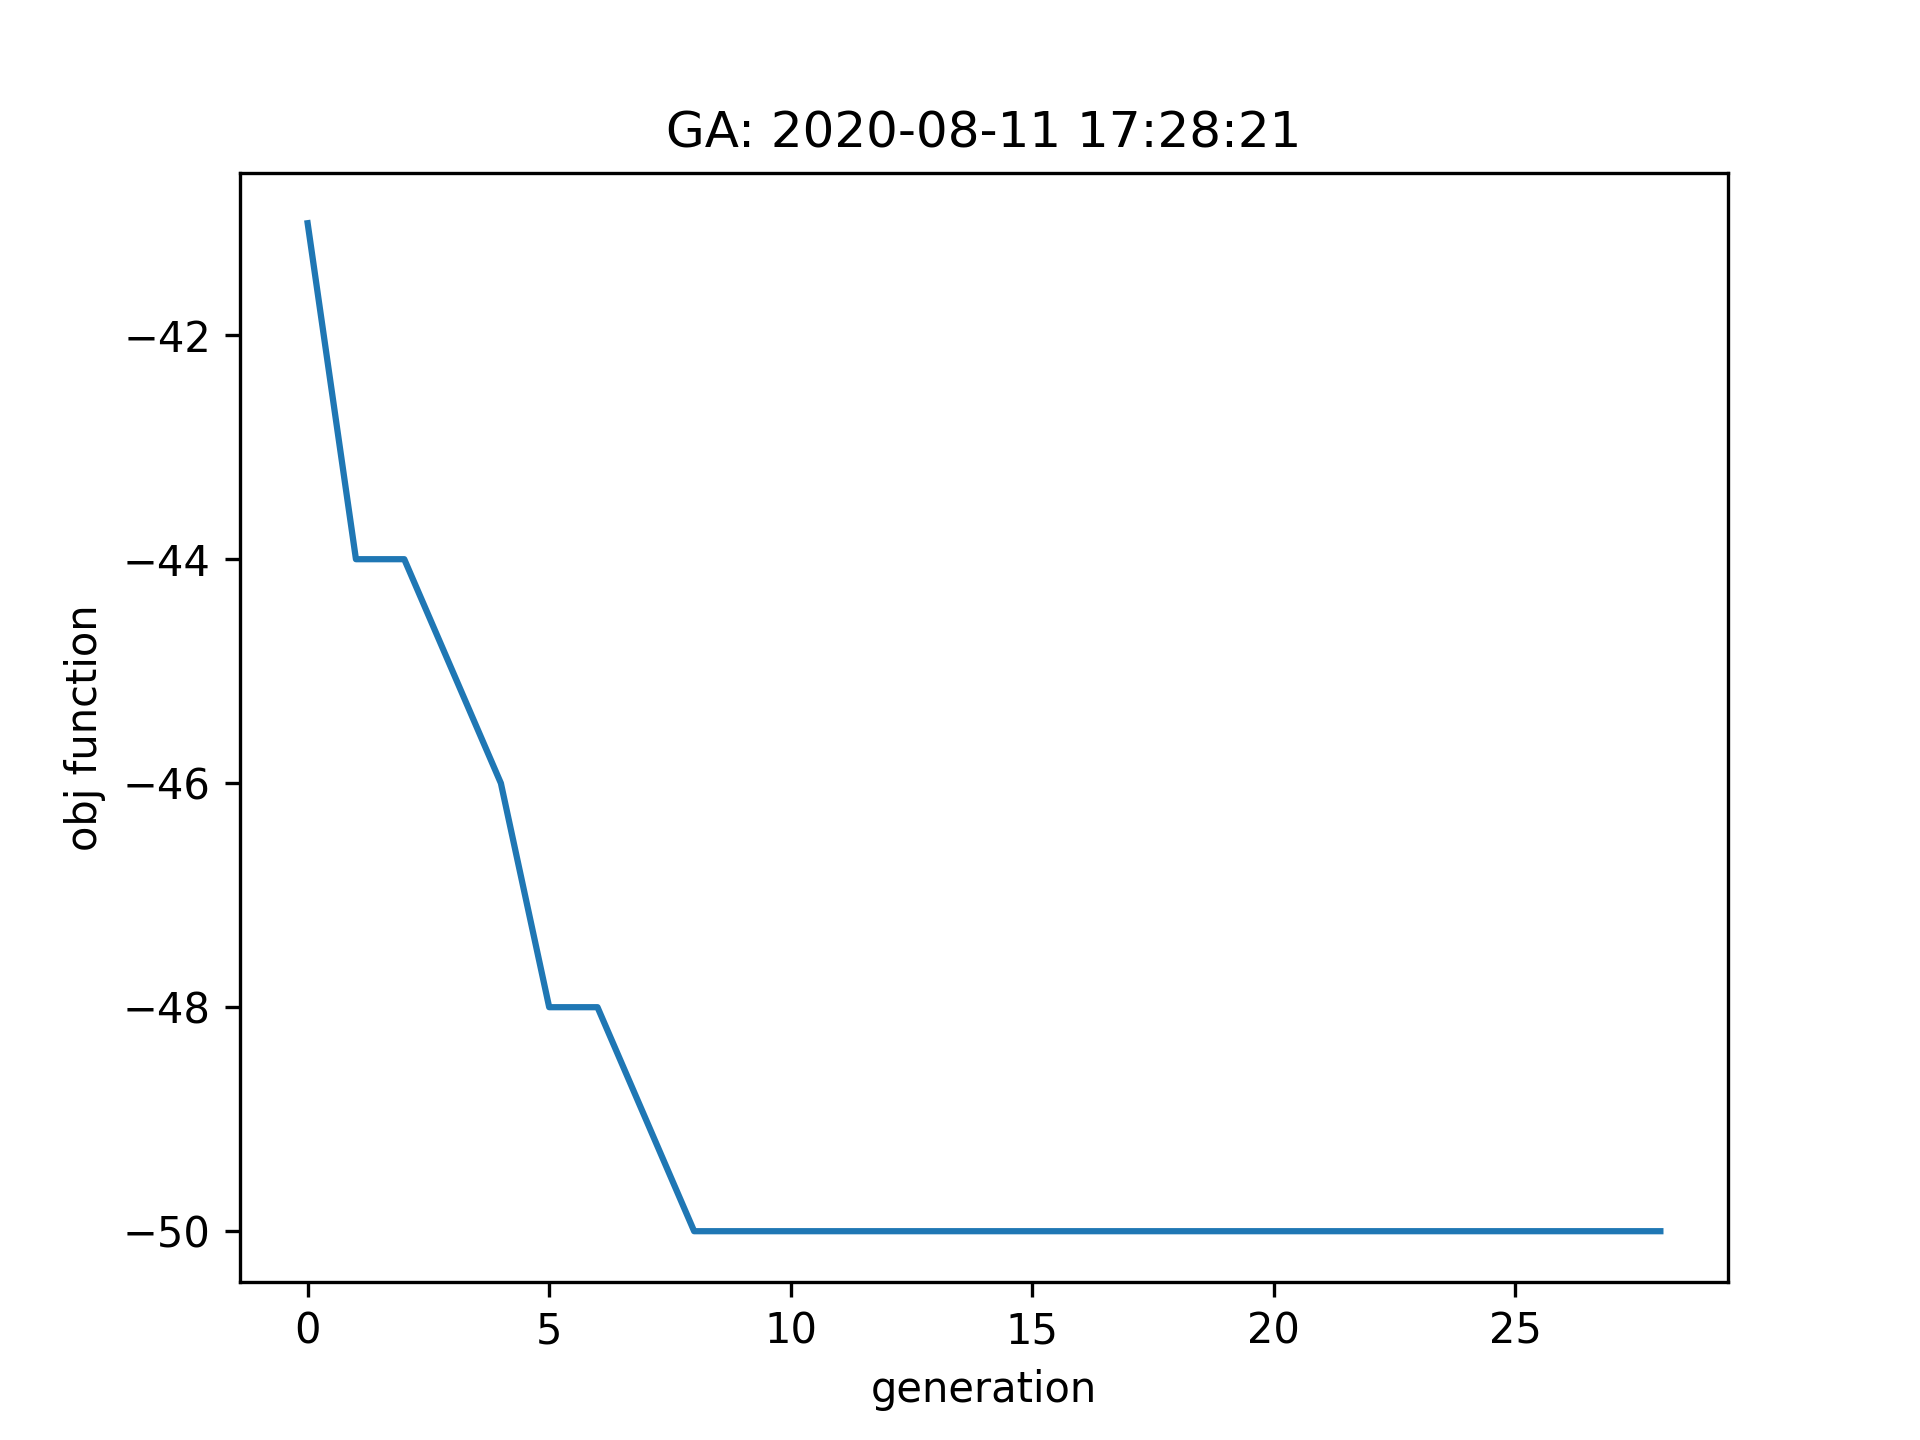
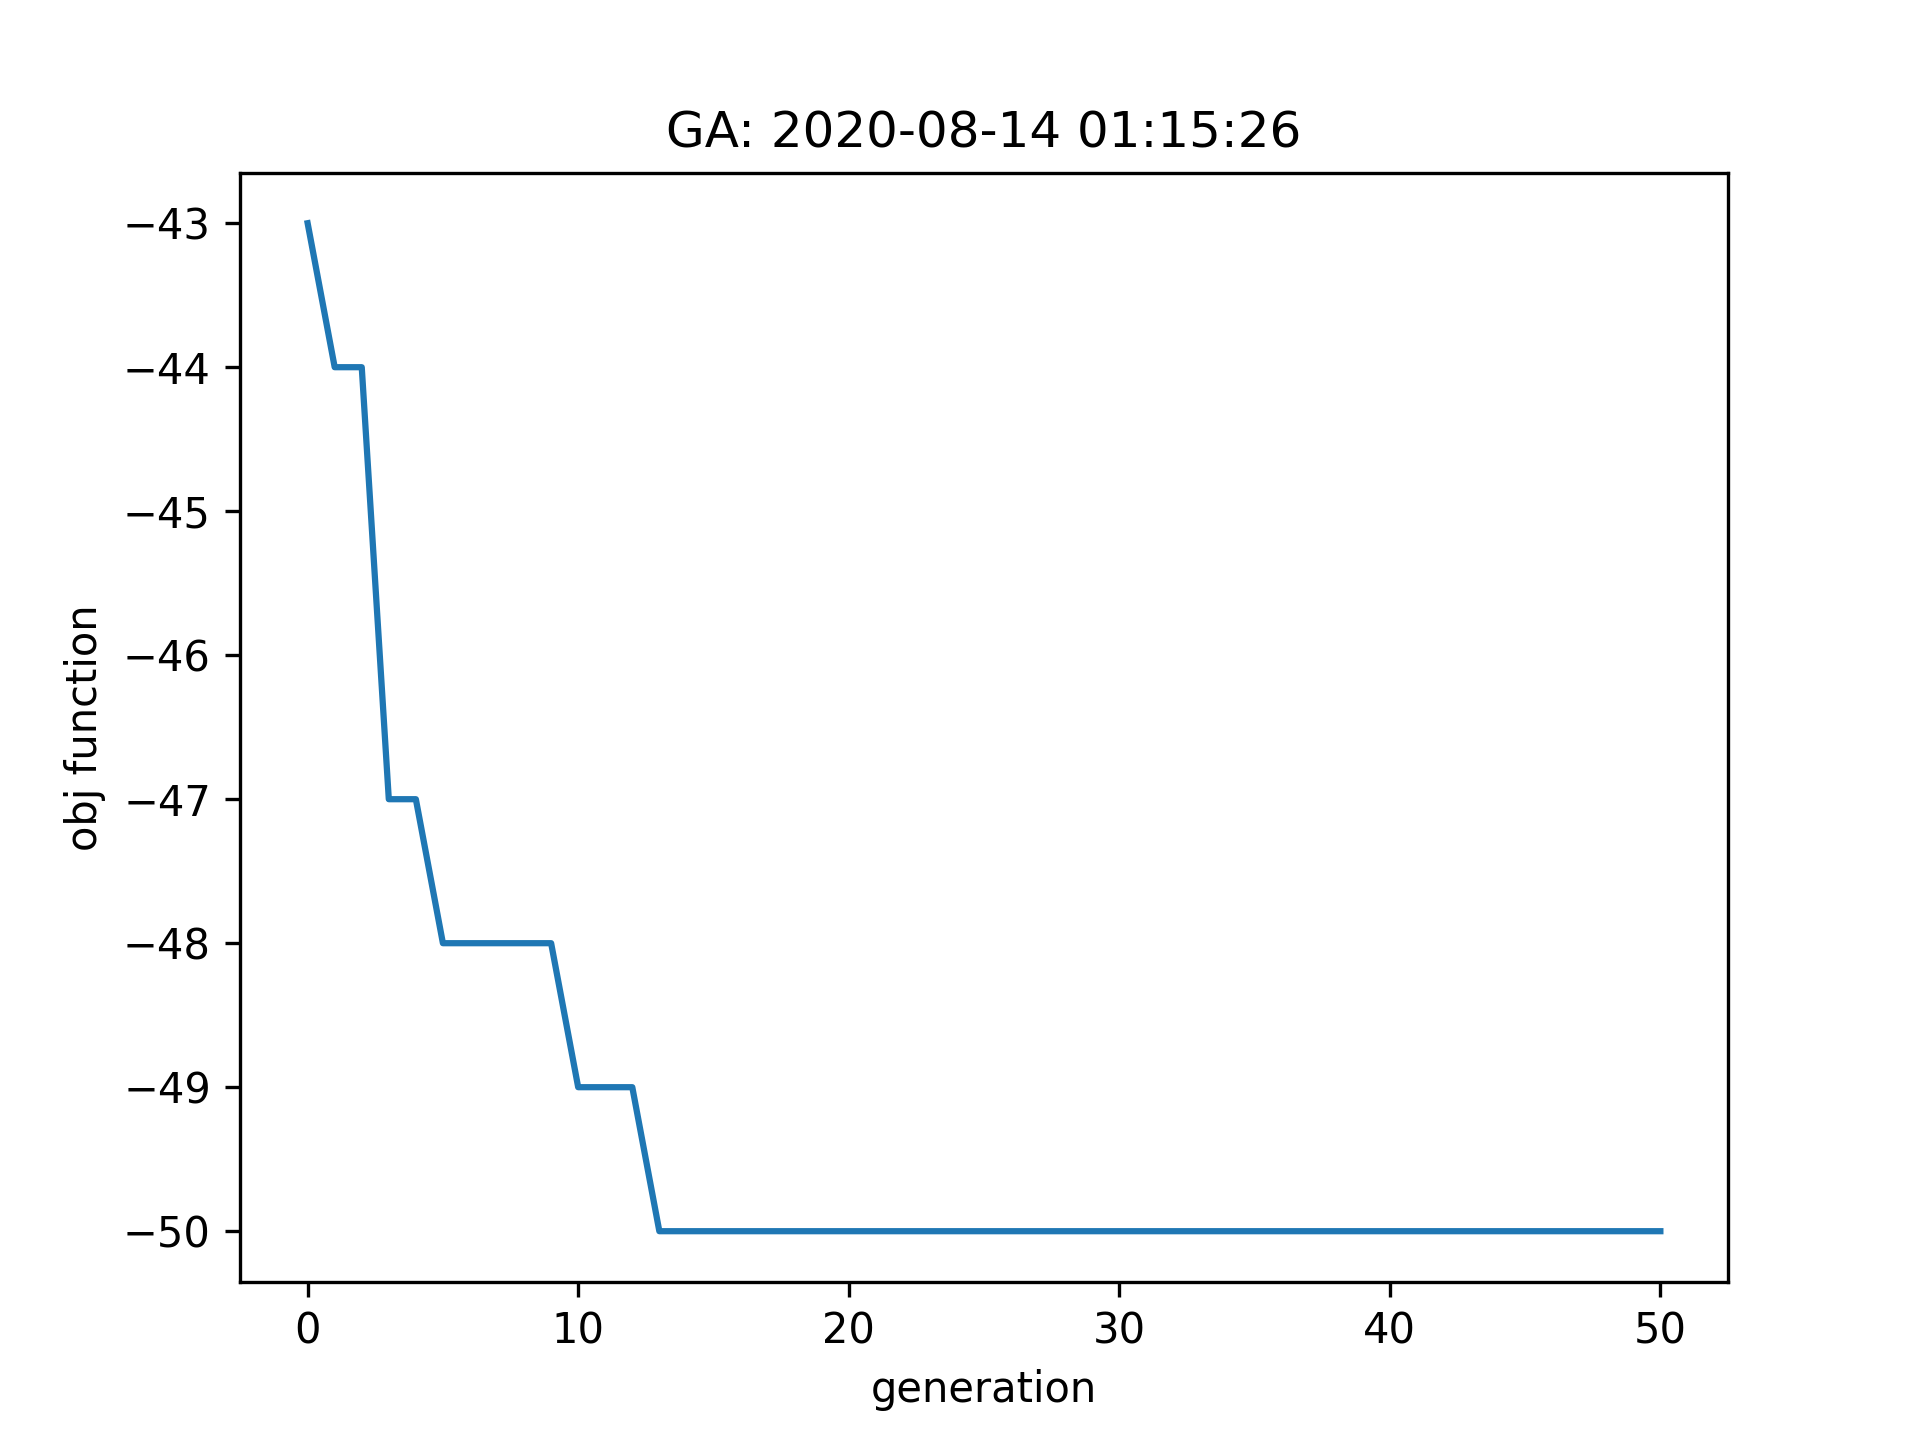
Incorporated 'effort' value, added option to suppress output from genetic algorithm

diff --git a/src/geneticalgorithm.py b/src/geneticalgorithm.py
@@ -9,13 +9,10 @@ from func_timeout import func_timeout, FunctionTimedOut
 import matplotlib.pyplot as plt
 from PIL import Image
 from datetime import date, datetime
-import random # oh to be fun and whimsical again
 
-## make a sweet message
-message_list = ["Adding Hidden Agendas", "Adjusting Bell Curves", "Aesthesizing Industrial Areas", "Aligning Covariance Matrices", "Applying Feng Shui Shaders", "Applying Theatre Soda Layer", "Asserting Packed Exemplars", "Attempting to Lock Back-Buffer", "Binding Sapling Root System", "Breeding Fauna", "Building Data Trees", "Bureacritizing Bureaucracies", "Calculating Inverse Probability Matrices", "Calculating Llama Expectoration Trajectory", "Calibrating Blue Skies", "Charging Ozone Layer", "Coalescing Cloud Formations", "Cohorting Exemplars", "Collecting Meteor Particles", "Compounding Inert Tessellations", "Compressing Fish Files", "Computing Optimal Bin Packing", "Concatenating Sub-Contractors", "Containing Existential Buffer", "Debarking Ark Ramp", "Debunching Unionized Commercial Services", "Deciding What Message to Display Next", "Decomposing Singular Values", "Decrementing Tectonic Plates", "Deleting Ferry Routes", "Depixelating Inner Mountain Surface Back Faces", "Depositing Slush Funds", "Destabilizing Economic Indicators", "Determining Width of Blast Fronts", "Deunionizing Bulldozers", "Dicing Models", "Diluting Livestock Nutrition Variables", "Downloading Satellite Terrain Data", "Exposing Flash Variables to Streak System", "Extracting Resources", "Factoring Pay Scale", "Fixing Election Outcome Matrix", "Flood-Filling Ground Water", "Flushing Pipe Network", "Gathering Particle Sources", "Generating Jobs", "Gesticulating Mimes", "Graphing Whale Migration", "Hiding Willio Webnet Mask", "Implementing Impeachment Routine", "Increasing Accuracy of RCI Simulators", "Increasing Magmafacation", "Initializing My Sim Tracking Mechanism", "Initializing Rhinoceros Breeding Timetable", "Initializing Robotic Click-Path AI", "Inserting Sublimated Messages", "Integrating Curves", "Integrating Illumination Form Factors", "Integrating Population Graphs", "Iterating Cellular Automata", "Lecturing Errant Subsystems", "Mixing Genetic Pool", "Modeling Object Components", "Mopping Occupant Leaks", "Normalizing Power", "Obfuscating Quigley Matrix", "Overconstraining Dirty Industry Calculations", "Partitioning City Grid Singularities", "Perturbing Matrices", "Pixalating Nude Patch", "Polishing Water Highlights", "Populating Lot Templates", "Preparing Sprites for Random Walks", "Prioritizing Landmarks", "Projecting Law Enforcement Pastry Intake", "Realigning Alternate Time Frames", "Reconfiguring User Mental Processes", "Relaxing Splines", "Removing Road Network Speed Bumps", "Removing Texture Gradients", "Removing Vehicle Avoidance Behavior", "Resolving GUID Conflict", "Reticulating Splines", "Retracting Phong Shader", "Retrieving from Back Store", "Reverse Engineering Image Consultant", "Routing Neural Network Infanstructure", "Scattering Rhino Food Sources", "Scrubbing Terrain", "Searching for Llamas", "Seeding Architecture Simulation Parameters", "Sequencing Particles", "Setting Advisor Moods", "Setting Inner Deity Indicators", "Setting Universal Physical Constants", "Sonically Enhancing Occupant-Free Timber", "Speculating Stock Market Indices", "Splatting Transforms", "Stratifying Ground Layers", "Sub-Sampling Water Data", "Synthesizing Gravity", "Synthesizing Wavelets", "Time-Compressing Simulator Clock", "Unable to Reveal Current Activity", "Weathering Buildings", "Zeroing Crime Network"]
-status_message = random.choice(message_list)+"..."
+## messages
+status_message = "Running genetic algorithm..."
 early_stop_message = "\n- Stopping early (no improvement) -"
-time_stop_message = "\n- Stopping early (time limit reached) -"
 
 class geneticalgorithm():
     
@@ -285,7 +282,8 @@ class geneticalgorithm():
             #     t=self.iterate
             #     self.stop_time=True
             
-            self.progress(t,self.iterate,status=status_message)
+            if self.param['verbose']:
+                self.progress(t,self.iterate,status=status_message)
             
             #Sort
             pop = pop[pop[:,self.dim].argsort()]
@@ -379,8 +377,9 @@ class geneticalgorithm():
                 pop = pop[pop[:,self.dim].argsort()]
                 if pop[0,self.dim]>=self.best_function:
                     t=self.iterate
-                    self.progress(t,self.iterate,status=status_message)
-                    time.sleep(2)
+                    if self.param['verbose']:
+                        self.progress(t,self.iterate,status=status_message)
+                        time.sleep(2)
                     t+=1
                     self.stop_mniwi=True
 
@@ -401,14 +400,16 @@ class geneticalgorithm():
         
         self.output_dict={'variable': self.best_variable, 'function':\
                           self.best_function}
-        show=' '*100
-        sys.stdout.write('\r%s' % (show))
-        ##sys.stdout.write('\r Best solution:\n %s' % (self.best_variable))
-        ##sys.stdout.write('\n\nObjective function: %s' % (self.best_function))
-        sys.stdout.write('\nScore: %s' % abs(self.best_function))
-        sys.stdout.flush() 
-        re=np.array(self.report)
         
+        if self.param['verbose']:
+            show=' '*100
+            sys.stdout.write('\r%s' % (show))
+            ##sys.stdout.write('\r Best solution:\n %s' % (self.best_variable))
+            ##sys.stdout.write('\n\nObjective function: %s' % (self.best_function))
+            sys.stdout.write('\nScore: %s' % abs(self.best_function))
+            sys.stdout.flush() 
+
+        re=np.array(self.report)
         now = datetime.today().strftime('%Y-%m-%d %H:%M:%S') ## pass from main?
         plt.plot(re)
         plt.xlabel('generation')
@@ -418,11 +419,7 @@ class geneticalgorithm():
         plt.show()
         #plt.savefig(sys.stdout.buffer)
 
-        ## stop due to time
-        # if self.stop_time==True:
-        #     sys.stdout.write(time_stop_message)
-
-        if self.stop_mniwi==True:
+        if self.stop_mniwi==True and self.param['verbose']:
             sys.stdout.write(early_stop_message)
 
         return self.best_variable

diff --git a/src/assign.py b/src/assign.py
@@ -14,7 +14,7 @@ import time # time the algorithm
 # imports from the application
 import load_csv
 import prints
-from score import pointsAvoid, pointsESLStudents, pointsMaxLowGPAStudents, pointsStudentChoice, pointsStudentPriority, pointsTeamSize
+import score
 
 # defs
 def objf(soln): # objective function
@@ -26,12 +26,12 @@ def objf(soln): # objective function
     """
  
     soln = fix(soln) # indexing
-    y = pointsTeamSize(soln)
-    y += pointsStudentPriority(soln)
-    y += pointsAvoid(soln)
-    y += pointsESLStudents(soln)
-    y += pointsMaxLowGPAStudents(soln)
-    y += pointsStudentChoice(soln)
+    y = score.pointsTeamSize(soln)
+    y += score.pointsStudentPriority(soln)
+    y += score.pointsAvoid(soln)
+    y += score.pointsESLStudents(soln)
+    y += score.pointsMaxLowGPAStudents(soln)
+    y += score.pointsStudentChoice(soln)
     
     return -y # return negative for positive scoring
 
@@ -48,8 +48,10 @@ def fix(soln):
         new_id[i] = load_csv.projectIDs[int(soln[i])-1]
     return new_id
 
-def run_ga():
+def run_ga(verbose=1):
     """run the genetic algorithm
+    arguments:
+    verbose (optional, default True) -- (1/0) outputs running text and progress bar
     returns:
     best_soln -- the best solution
     """
@@ -61,10 +63,7 @@ def run_ga():
     np.set_printoptions(precision=2) # output 2 past the decimal
     
     # hyperparameters
-    global num_generations
-    global ga_effort
-    ga_effort = 2.5
-    num_generations = num_students*num_projects*ga_effort # scale generations based on input size
+    num_generations = num_students*num_projects*load_csv.effort # scale generations based on input size
 
     var_bound = np.array([[1,num_projects]]*num_students) # solution shape
     ga_params = {'max_num_iteration': num_generations,\
@@ -74,7 +73,8 @@ def run_ga():
                     'crossover_probability': 0.5,\
                     'parents_portion': 0.3,\
                     'crossover_type':'uniform',\
-                    'max_iteration_without_improv':num_generations*0.15,\
+                    'max_iteration_without_improv':num_generations*0.35,\
+                    'verbose':verbose,\
                     }
 
     # max_num_iteration <int> -- stop after this many generations
@@ -94,13 +94,12 @@ def run_ga():
                 algorithm_parameters=ga_params
                 )
     # function=objf -- function to minimize
-    # dimension=num_students -- length
+    # dimension=num_students -- chromosome length
     # variable_type=int -- data type
-    # variable_boundaries=var_bound -- data range per element 
+    # variable_boundaries=var_bound -- data range per gene 
     # algorithm_parameters=ga_params -- ga settings from above
-    verbose = 1
-    if verbose:        
-        prints.printGeneral(f'Running {num_generations} with input: {load_csv.infile}')
+    if verbose:       
+        prints.printGeneral(f'Running {num_generations} generations with input: {load_csv.infile}')
 
     # hit it
     global total_time
@@ -109,40 +108,6 @@ def run_ga():
     total_time = time.time() - t0
     
     return best_soln
-
-def ga_debug(best_soln):
-    """genetic algorithm debugging output
-    arguments:
-    best_soln (req) -- the best solution the ga outputs
-    """
-    num_projects = load_csv.num_projects
-    
-    prints.printGeneral(f'\n:: Debugging output ::')
-    prints.printGeneral(f'Solution:\n {best_soln}')
-
-    # group sizes
-    global gs 
-    gs = np.empty(num_projects, dtype=object)
-    for i in range(num_projects):
-        gs[i] = np.count_nonzero(best_soln == (i+1))
-
-    trunc_limit = 22 # truncate the output to fit in the console
-    if len(load_csv.df_choices['studentChoice1'].values.tolist()) > trunc_limit:
-        prints.printGeneral(f'\nChoices (truncated):')
-    else:
-        prints.printGeneral(f'\nDesired choices:')
-    prints.printGeneral(f"1: {load_csv.df_choices['studentChoice1'].values.tolist()[:trunc_limit]}")
-    prints.printGeneral(f"2: {load_csv.df_choices['studentChoice2'].values.tolist()[:trunc_limit]}")
-    prints.printGeneral(f"3: {load_csv.df_choices['studentChoice3'].values.tolist()[:trunc_limit]}")
-
-    prints.printGeneral(f'\nGroup sizes:')
-    prints.printGeneral(f'min: {load_csv.minTeamSize}')
-    prints.printGeneral(f'ACT: {gs.tolist()}')
-    prints.printGeneral(f'max: {load_csv.maxTeamSize}')
-
-    prints.printGeneral(f'\nTiming:')
-    prints.printGeneral(f'Run time: {round(total_time, 3)}')
-    prints.printGeneral(f'Per generation: {round(total_time/num_generations, 6)}')
     
 ## call things for test
-best_soln = run_ga()
+best_soln = run_ga() # run_ga(verbose=0) for silence

diff --git a/src/load_csv.py b/src/load_csv.py
@@ -61,3 +61,6 @@ global numStudents
 numStudents = df['studentID'].count() # number of students (count each ID)
 # num_projects = len(projectIDs) # total projects available
 # num_choices = len(df_choices.columns)
+
+global effort
+effort = 2
